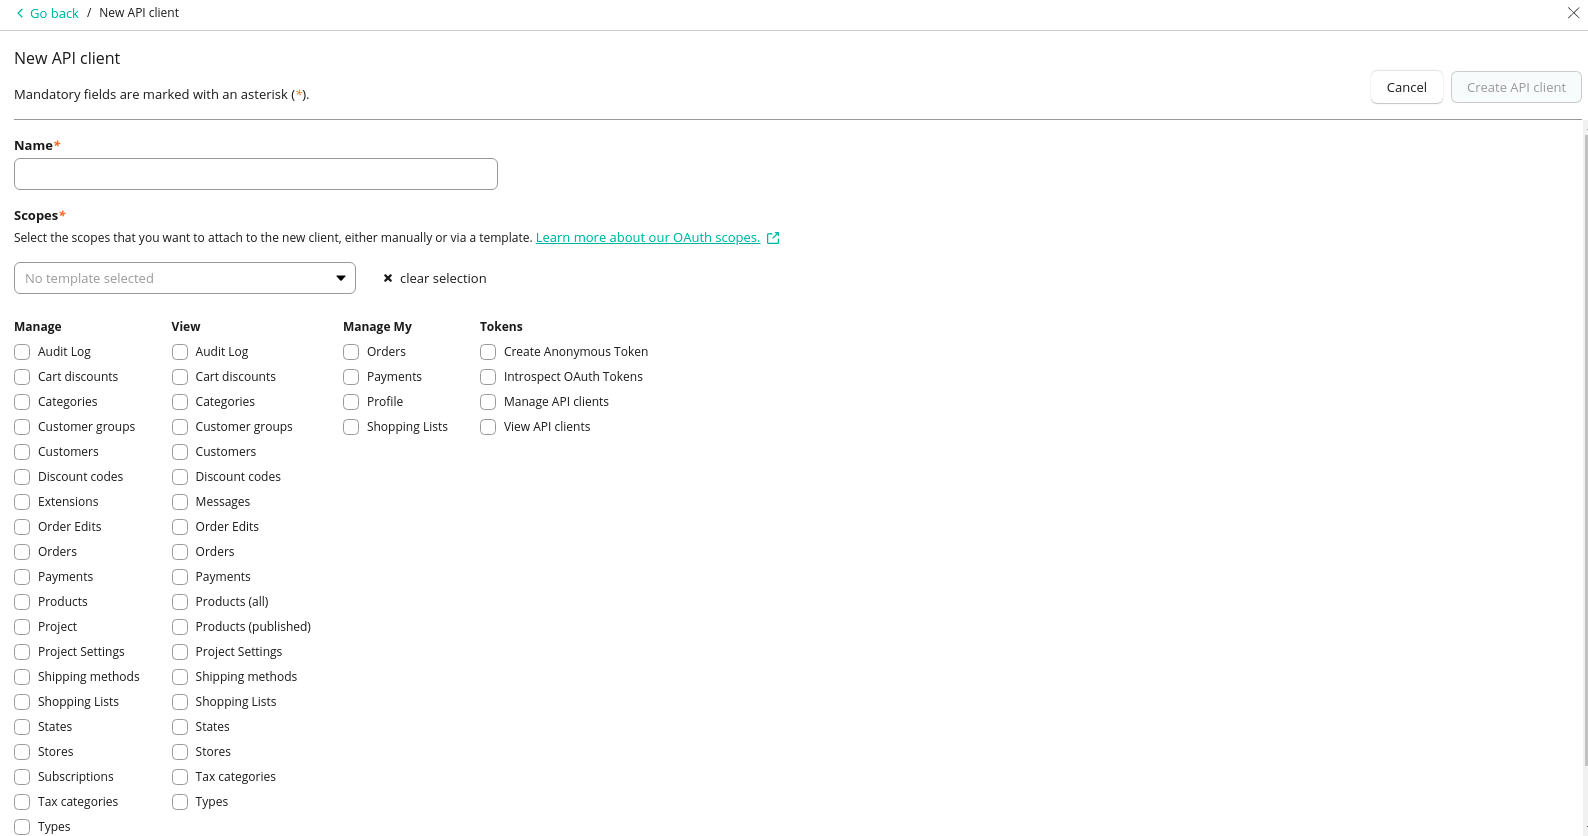
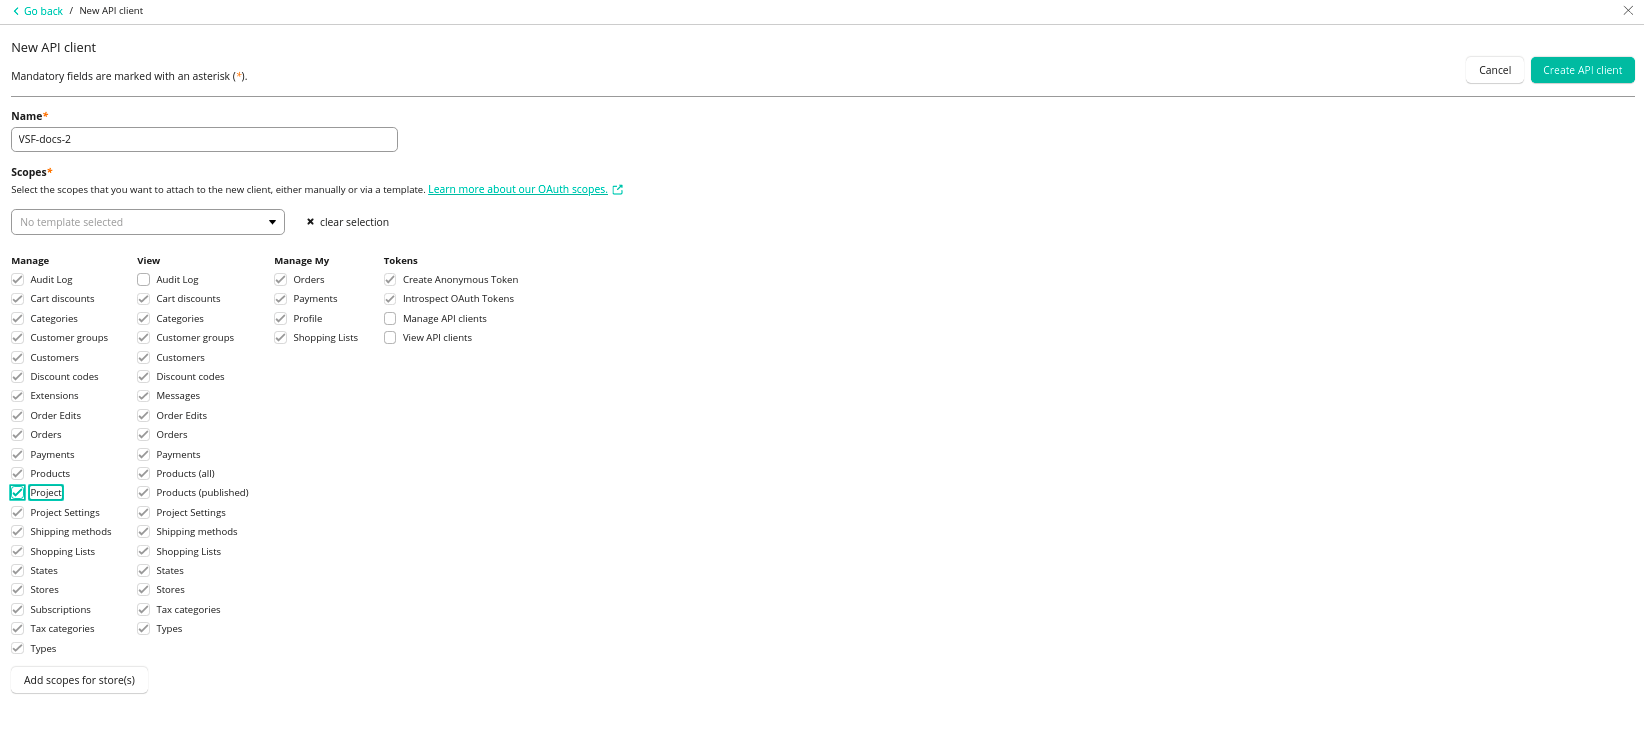
feat: docs cleaning and change style

diff --git a/packages/core/docs/commercetools/setup-store.md b/packages/core/docs/commercetools/setup-store.md
@@ -18,7 +18,7 @@ Preparing configuration for your store consist of few steps to make it ready to 
 In `Project settings` menu you need to define basic settings:
 
 <center>
-  <img src="./images/setup-store/project-settings-sidebar-signed.png" alt="Commercetools manage projects menu" />
+  <img src="./images/setup-store/project-settings-sidebar-signed.png" alt="Commercetools manage projects menu" class="image-shadow" />
 </center>
 
 ##  International configuration
@@ -26,25 +26,25 @@ In `Project settings` menu you need to define basic settings:
 Select currencies available in your store:
 
 <center>
-  <img src="./images/setup-store/currencies.png" alt="Commercetools manage projects menu" class="markdown-preview-view" />
+  <img src="./images/setup-store/currencies.png" alt="Commercetools manage projects menu" class="image-shadow preview-view" />
 </center>
 
 Then, select supported languages:
 
 <center>
-  <img src="./images/setup-store/languages.png" alt="Commercetools languages configuration" class="markdown-preview-view" />
+  <img src="./images/setup-store/languages.png" alt="Commercetools languages configuration" class="image-shadow preview-view" />
 </center>
 
 Next, select the available countries:
 
 <center>
-  <img src="./images/setup-store/countries.png" alt="Commercetools countries configuration" class="markdown-preview-view" />
+  <img src="./images/setup-store/countries.png" alt="Commercetools countries configuration" class="image-shadow preview-view" />
 </center>
 
 Finally, set zones. Zones are helpful when few countries share the same delivery costs. You need to configure at least one shipping zone to be able to set up shipping methods later.
 
 <center>
-  <img src="./images/setup-store/zones.png" alt="Commercetools zones configuration" class="markdown-preview-view" />
+  <img src="./images/setup-store/zones.png" alt="Commercetools zones configuration" class="image-shadow preview-view" />
 </center>
 
 ## Taxes configuration
@@ -52,7 +52,7 @@ Finally, set zones. Zones are helpful when few countries share the same delivery
 Open the `Settings > Project settings` menu. In the `Taxes` tab, you can configure tax rates for the countries configured in the `International` tab.
 
 <center>
-  <img src="./images/setup-store/taxes.png" alt="Commercetools taxes configuration" class="markdown-preview-view" />
+  <img src="./images/setup-store/taxes.png" alt="Commercetools taxes configuration" class="image-shadow preview-view" />
 </center>
 
 ## Shipping methods configuration
@@ -62,7 +62,7 @@ To add a shipping method, open the `Settings > Project settings` menu and select
 Then, enter specific methods for each zone and currency:
 
 <center>
-  <img src="./images/setup-store/shipping-methods_1.png" alt="Commercetools shipping methods configuration" class="markdown-preview-view" />
+  <img src="./images/setup-store/shipping-methods_1.png" alt="Commercetools shipping methods configuration" class="image-shadow preview-view" />
 </center>
 
 ## Adding a new category
@@ -72,28 +72,28 @@ In order to create a category you need to:
 
 1. Choose `add category` from the sidebar menu. 
   <center>
-    <img src="./images/setup-store/categories-sidebar-signed.png" alt="Commercetools create category first step" />
+    <img src="./images/setup-store/categories-sidebar-signed.png" alt="Commercetools create category first step" class="image-shadow" />
   </center>
 
 2. Enter the name, and category order.
   <center>
-    <img src="./images/setup-store/create-category-0.png" alt="Commercetools create category first step" class="markdown-preview-view" />
+    <img src="./images/setup-store/create-category-0.png" alt="Commercetools create category first step" class="image-shadow preview-view" />
   </center>
 3. If applicable, select the parent category to which this category belongs.
   <center>
-    <img src="./images/setup-store/create-category-1.png" alt="Commercetools create category second step" class="markdown-preview-view" />
+    <img src="./images/setup-store/create-category-1.png" alt="Commercetools create category second step" class="image-shadow preview-view" />
   </center>
 
 4. Enter the slug. It will be part of the URL for this category.
   <center>
-    <img src="./images/setup-store/create-category-2.png" alt="Commercetools create category third step" class="markdown-preview-view" />
+    <img src="./images/setup-store/create-category-2.png" alt="Commercetools create category third step" class="image-shadow preview-view" />
   </center>
 
 Please provide category structure with at least two levels, in order to show category page properly in VSF 2 project (one is on top, inside main menu and second level categories are shown in menu on the left).
 
 You can see your categories in `categories search` menu:
   <center>
-    <img src="./images/setup-store/categories-search.png" alt="Commercetools create product type first step" class="markdown-preview-view" />
+    <img src="./images/setup-store/categories-search.png" alt="Commercetools create product type first step" class="image-shadow preview-view" />
   </center>
 
 ## Adding a new product type
@@ -102,61 +102,75 @@ To create any product in commercetools, at least one product type needs to be se
 
 
   <center>
-    <img src="./images/setup-store/product-types-sidebar-signed.png" alt="Commercetools create product type first step" />
+    <img src="./images/setup-store/product-types-sidebar-signed.png" alt="Commercetools create product type first step" class="image-shadow" />
   </center>
 
 1. Enter name and description.
 
   <center>
-    <img src="./images/setup-store/product-type-1.png" alt="Commercetools create product type first step" class="markdown-preview-view" />
+    <img src="./images/setup-store/product-type-1.png" alt="Commercetools create product type first step" class="image-shadow preview-view" />
   </center>
 
 
 2. Click the 'Add an attribute' button and enter the name, label, constraints, and type fields.
 
   <center>
-    <img src="./images/setup-store/product-type-3.png" alt="Commercetools create product type first step" class="markdown-preview-view" />
+    <img src="./images/setup-store/add-attribute.png" alt="Commercetools create product type first step" class="image-shadow preview-view" />
   </center>
 
 ## Adding a new product
 
 After creating at least one product type, you can add a new product. You can read more about them on the [Modeling Products](https://docs.commercetools.com/tutorials/product-modeling/products) page.
 
-1. Go to the `Products` page. Click the `Add product` button and select the type.
+1. Go to the `Products` page. 
 
   <center>
-    <img src="./images/setup-store/add-product-1.png" alt="Commercetools add product first step" class="markdown-preview-view" />
+    <img src="./images/setup-store/products-sidebar-signed.png" alt="Commercetools add product first step" class="image-shadow preview-view" />
   </center>
 
-2. Type the name and assign the tax category.
+2. Click the `Add product` button and select the type.
 
   <center>
-    <img src="./images/setup-store/add-product-2.png" alt="Commercetools add product second step" class="markdown-preview-view" />
+    <img src="./images/setup-store/add-product-1.png" alt="Commercetools add product first step" class="image-shadow preview-view" />
   </center>
 
-3. Add at least one variant of the product with attribute and SKU number.
+3. Type the name and assign the tax category.
 
   <center>
-    <img src="./images/setup-store/variant.png" alt="Commercetools add product third step - choose variant" class="markdown-preview-view" />
+    <img src="./images/setup-store/add-product-2.png" alt="Commercetools add product second step" class="image-shadow preview-view" />
   </center>
 
-4. Enter a slug, keywords, and metadata to optimize searching.
+4. Add at least one variant of the product with attribute and SKU number.
 
   <center>
-    <img src="./images/setup-store/add-product-3.png" alt="Commercetools add product fourth step - SEO" class="markdown-preview-view" />
+    <img src="./images/setup-store/variant.png" alt="Commercetools add product third step - choose variant" class="image-shadow preview-view" />
   </center>
+
+5. Enter a slug, keywords, and metadata to optimize searching.
+
+  <center>
+    <img src="./images/setup-store/add-product-3.png" alt="Commercetools add product fourth step - SEO" class="image-shadow preview-view" />
+  </center>
+
+6. Change product status to `Published` in the top right part of the product screen.
+
+  <center>
+    <img src="./images/setup-store/product-status.png" alt="Commercetools add product fourth step - SEO" class="image-shadow preview-view" />
+  </center>
+
 
 ### API settings
 
-The Last important step is to generate credentials for your project to connect both tools.
-Go to the `developer settings` and click `Create new API client` button and choose manage -> Project scope, but please keep in mind that it use entire API for the project, so it is not recommended for production use. In that case, select only scopes that are needed.
+The last important step is to generate credentials for your project to connect both tools.
+Go to the `developer settings` and click `Create new API client` button. After filling the `name` field choose `Project` scope in `manage` column, but please keep in mind that it use entire API for the project, so it is not recommended for production use. In that case, select only scopes that are needed.
+
 <center>
-  <img src="./images/setup-store/developer-settings-sidebar-signed.png" alt="Commercetools set scope for client API" />
+  <img src="./images/setup-store/developer-settings-sidebar-signed.png" alt="Commercetools set scope for client API" class="image-shadow" />
 </center>
 
 
 <center>
-  <img src="./images/setup-store/api-client-1.png" alt="Commercetools set scope for client API" class="markdown-preview-view" />
+  <img src="./images/setup-store/api-client-1.png" alt="Commercetools set scope for client API" class="image-shadow preview-view" />
 </center>
 
 
@@ -164,7 +178,7 @@ If you need more information about scopes please see [documentation](https://doc
 When you click on create API you will see all the credentials. They are only displayed once, so you need to store them securely. You can download them in the format you need.
 
 <center>
-  <img src="./images/setup-store/api-client-2.png" alt="Commercetools client API credentials" class="markdown-preview-view" />
+  <img src="./images/setup-store/api-client-2.png" alt="Commercetools client API credentials" class="image-shadow preview-view" />
 </center>
 
 Now let's move to front-end side.
@@ -179,12 +193,13 @@ npx @vue-storefront/cli init
 During initialization you should choose your project name and integration you use, in these case `Commercetools`.
 
 <center>
-  <img src="./images/setup-store/init-vsf.png" alt="Commercetools client API credentials" />
+  <img src="./images/setup-store/init-vsf.png" alt="Commercetools client API credentials" class="image-shadow" />
 </center>
 
 After entering your project catalogue, fetch all dependencies: 
 
 ```sh
+cd <PROJECT_NAME>
 yarn install
 ```
 
@@ -257,25 +272,38 @@ The next step is to setup `nuxt.config.js` file properly. The countries, currenc
     ],
   ```
 
+
+:::tip
+Take a closer look at above configuration and make sure all locales are set exactly like in Commercetools Merchant Center, because it's common mistake to forgot e.g. that `en` is not the same as `en-US`. 
+:::
+
+
+Now you can rebuild your project and run again:
+
+```sh
+yarn build
+yarn dev
+```
+
   If you follow all the previous steps you should see your project working, filled with data that you prevously setup in Commercetools project:
 
 - on home page: 
 
   <center>
-    <img src="./images/setup-store/home-page.png" alt="Commercetools client API credentials" />
+    <img src="./images/setup-store/home-page.png" alt="Commercetools client API credentials" class="image-shadow" />
   </center>
 
 - on category page:
 
 <center>
-    <img src="./images/setup-store/category-page.png" alt="Commercetools client API credentials" />
+    <img src="./images/setup-store/category-page.png" alt="Commercetools client API credentials" class="image-shadow" />
   </center>
 
 
 - and on product detail page:
 
 <center>
-    <img src="./images/setup-store/product-detail-page.png" alt="Commercetools client API credentials" />
+    <img src="./images/setup-store/product-detail-page.png" alt="Commercetools client API credentials" class="image-shadow" />
   </center>
 
-So it is just the beginning of your VSF Next store based on Commercetools integration. Now you can customize it according to your needs. 
+It is just the beginning of your VSF Next store based on Commercetools integration. Now you can customize it according to your needs. 
